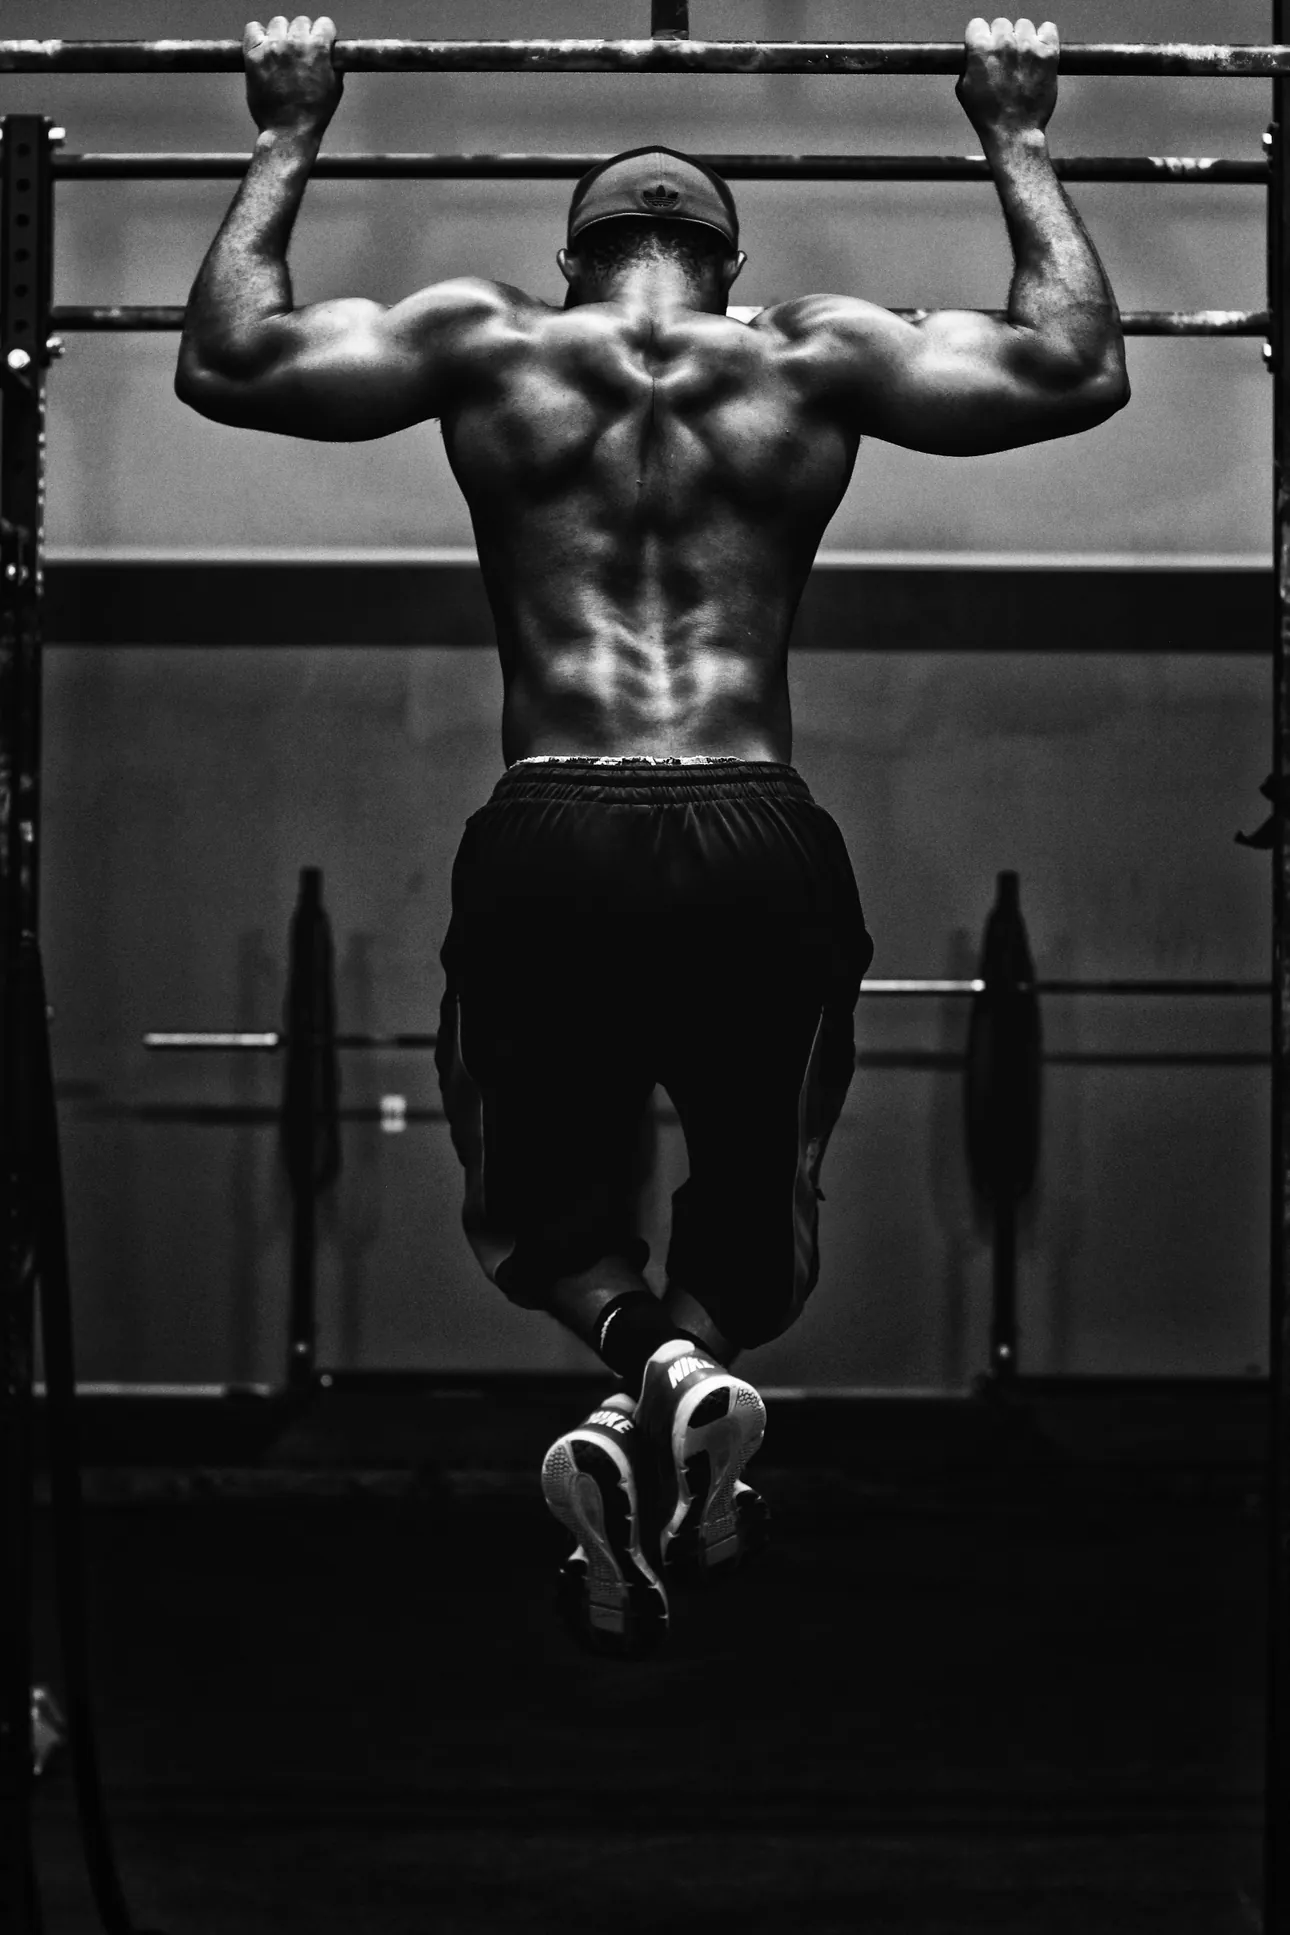
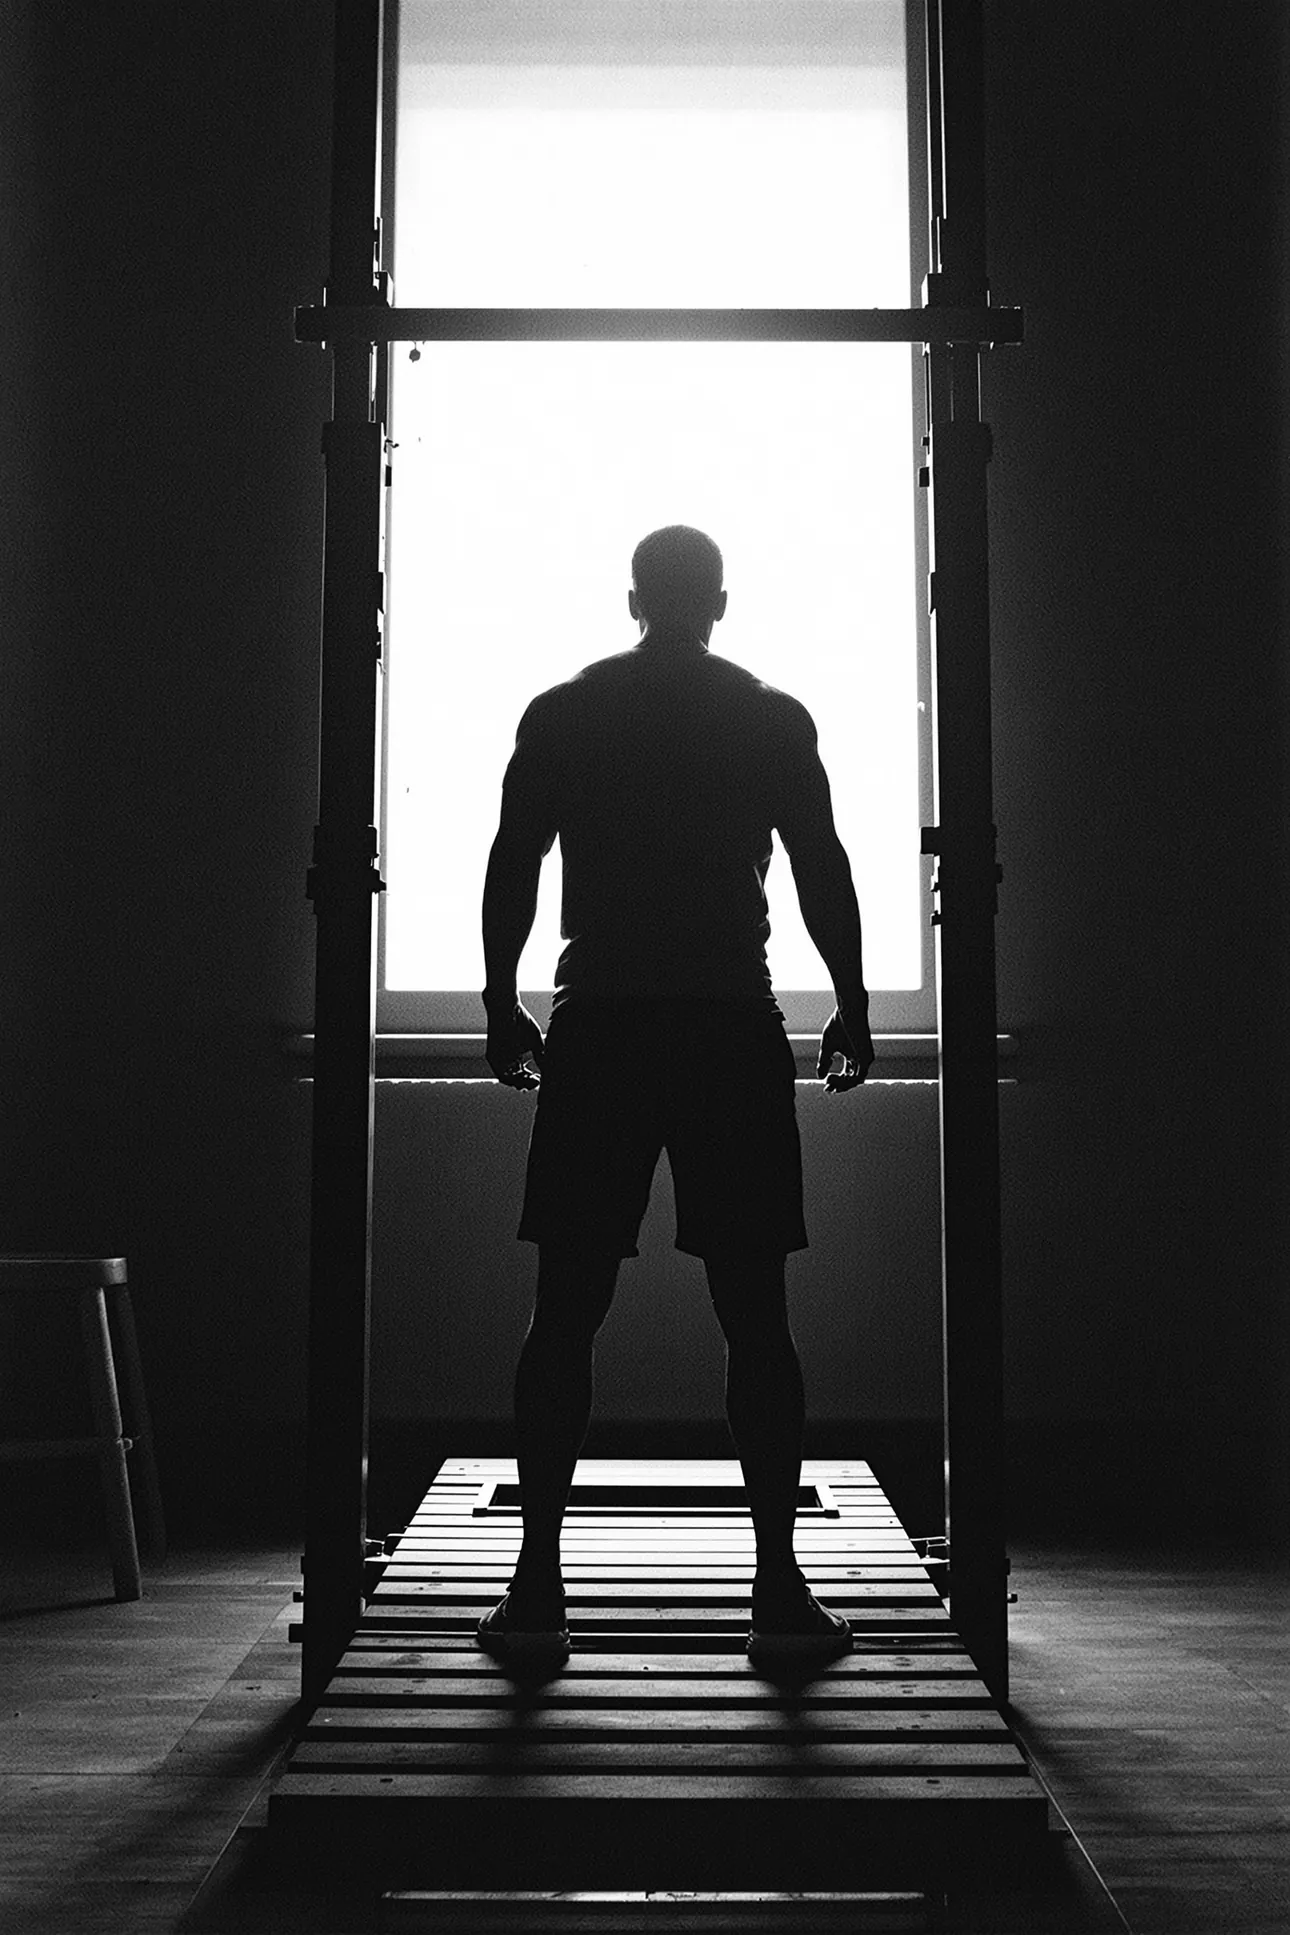
chore(lift): the Track and Sign-in heroes, generated rather than borrowed
Replicate is back, so the two heroes are generated the way ADR-0009
describes, replacing this morning's Unsplash stand-ins. Six candidates
from FLUX 1.1 [pro] Ultra; the two kept were chosen at full resolution,
where two others failed: garbled lettering on a rack, and the glossy
streaked skin image models leave on forearms. Silhouettes and light hold
up, which is what Sign in's lifter at a window is.

SOURCES.md records the model, prompts and seeds, and replaces the Unsplash
licence note.

diff --git a/apps/mgk_lift/assets/images/backgrounds/SOURCES.md b/apps/mgk_lift/assets/images/backgrounds/SOURCES.md
@@ -1,0 +1,21 @@
+# Where the Track and Sign-in heroes come from
+
+Generated on 2026-09-30 with FLUX 1.1 [pro] Ultra (`black-forest-labs/flux-1.1-pro-ultra`,
+raw mode, 2:3) on Replicate, as ADR-0009 describes for the suite's backgrounds,
+then converted to greyscale and resized to 1290 px wide.
+
+| File | Seed | Prompt | After |
+|---|---|---|---|
+| `hero_track.webp` | 4102 | *Black and white documentary photograph inside a quiet gym at dusk: rows of dumbbells and a lifting platform with a loaded barbell on the floor, lit by a single warm window light from the side, long shadows. The upper third of the frame is dark empty ceiling and wall, calm negative space. Shallow depth of field, fine film grain. No people, no text, no logos.* | shadows lifted (gamma 0.8) |
+| `hero_sign_in.webp` | 4301 | *Black and white cinematic photograph: the silhouette of a lifter standing on a wooden lifting platform, facing a tall bright window at dawn, strongly backlit, soft haze in the air, the rest of the gym in darkness. Upper third of the frame is dark and empty. Minimal, calm, premium, fine film grain. Silhouette only, no face or skin detail, no text, no logos.* | none |
+
+**Chosen over the alternatives by looking at full resolution, not thumbnails.**
+Two of the six candidates failed there: a rack with garbled lettering on its
+uprights, and an athlete whose forearms had the glossy, streaked skin image
+models leave. Silhouettes and light hold up; skin and lettering do not, so ask
+for those when one of these is regenerated.
+
+Until these, two Unsplash photographs stood in (Brett Jordan's rack, Edgar
+Chaparro's pull-up); both are gone from the app.
+
+This file covers those two images only, not the other heroes in this folder.
